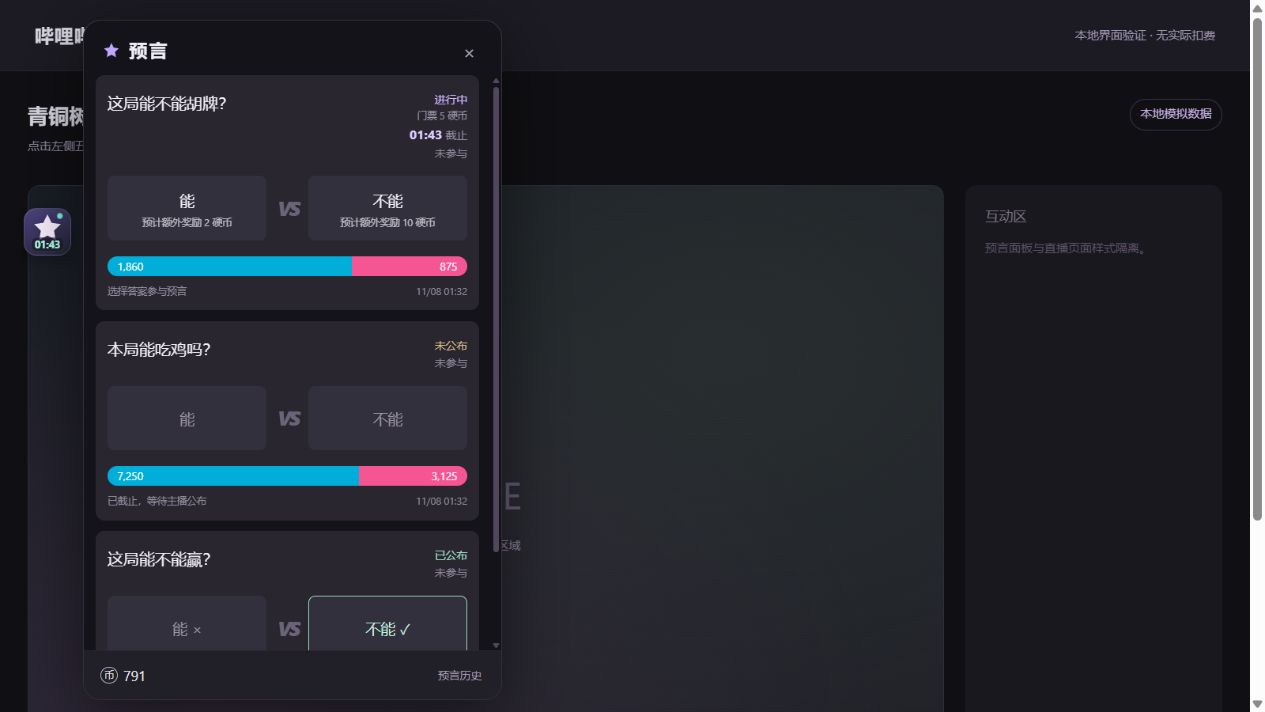
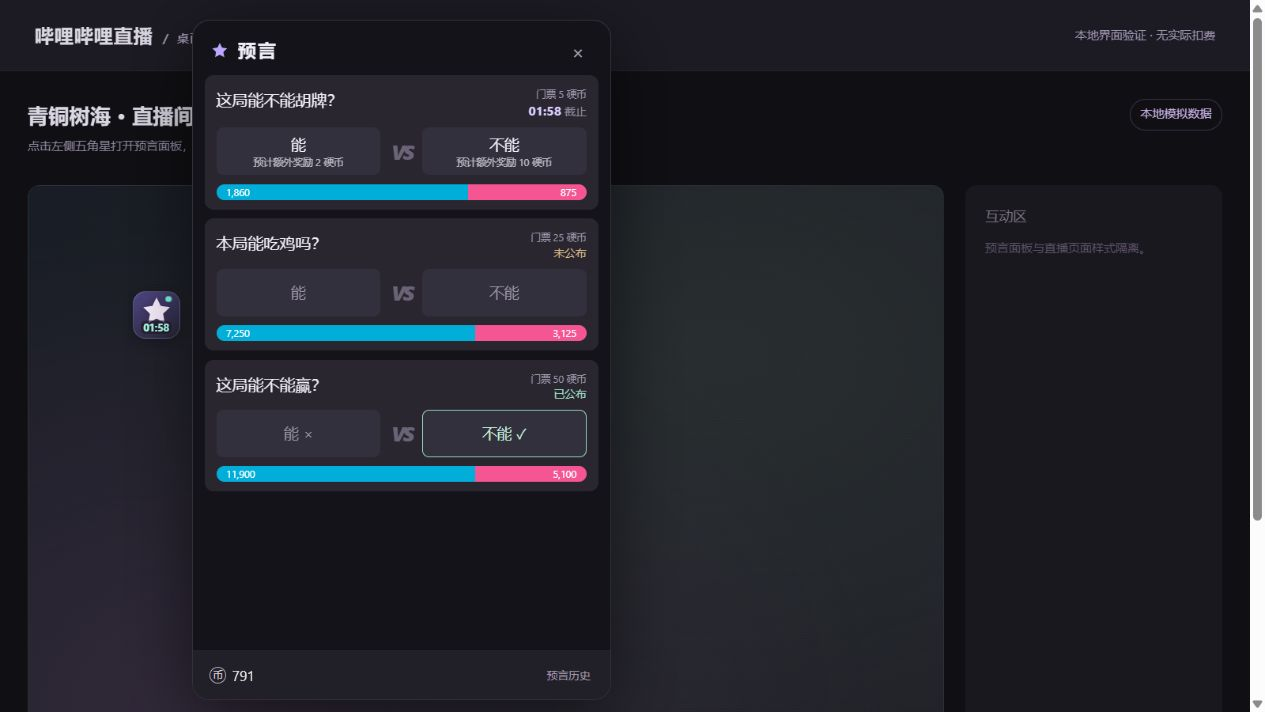
Compact prophecy cards and remove redundant labels (v1.0.5)

diff --git a/bilibili-live-prophecy.user.js b/bilibili-live-prophecy.user.js
@@ -1,7 +1,7 @@
 // ==UserScript==
 // @name         哔哩哔哩直播 · 预言
 // @namespace    local.bilibili.live.prophecy
-// @version      1.0.4
+// @version      1.0.5
 // @description  在电脑直播间查看和参与手机端预言，显示倒计时、公布状态与个人历史。
 // @homepageURL  https://github.com/jiazaiwanbi/biliBetWeb
 // @downloadURL  https://raw.githubusercontent.com/jiazaiwanbi/biliBetWeb/main/bilibili-live-prophecy.user.js
@@ -128,7 +128,7 @@
     button{font:inherit;color:inherit;border:0;cursor:pointer}button:disabled{cursor:not-allowed;opacity:.55}button:focus-visible,a:focus-visible{outline:2px solid #b7a1ff;outline-offset:3px}
     .launcher{position:fixed;width:48px;height:48px;padding:0;display:block;border:1px solid #ffffff24;border-radius:13px;background:linear-gradient(150deg,#7460c980,#29243866);box-shadow:0 4px 15px #0004;touch-action:none;user-select:none;backdrop-filter:blur(6px)}
     .launcher{transition:opacity .15s ease,visibility .15s ease}.launcher[data-controls-hidden=true]{opacity:0;visibility:hidden;pointer-events:none}.launcher:hover{filter:brightness(1.12)}.star-wrap{position:absolute;top:3px;left:50%;transform:translateX(-50%);width:34px;height:34px;display:grid;place-items:center}.star-wrap svg{width:34px;height:34px;color:#e1d6ff;filter:drop-shadow(0 1px 3px #22173966)}.live-dot{display:none;position:absolute;right:1px;top:1px;width:7px;height:7px;border:1px solid #64518c99;border-radius:50%;background:#66edc1}.launcher[data-kind=active] .live-dot{display:block}.launcher-label{position:absolute;z-index:1;bottom:3px;left:50%;transform:translateX(-50%);max-width:44px;padding:0 3px;border:1px solid #ffffff12;border-radius:5px;background:#1b1628a8;color:#e6dcfa;font-size:9px;line-height:13px;white-space:nowrap;font-weight:650;font-variant-numeric:tabular-nums}.launcher[data-kind=active] .launcher-label{color:#9ff4d4;font-size:10px}
-    .panel{position:fixed;width:min(424px,calc(100vw - 24px));height:min(708px,calc(100dvh - 32px));display:flex;flex-direction:column;overflow:hidden;border:1px solid #ffffff22;border-radius:18px;background:#141319;box-shadow:0 18px 70px #0008}.panel[hidden]{display:none}.head{display:flex;align-items:center;justify-content:space-between;gap:10px;padding:16px 18px 10px}.heading{display:flex;align-items:center;gap:9px}.heading svg{width:19px;height:19px;color:#bea7ff}.heading h2{font-size:18px;font-weight:650;letter-spacing:2px;margin:0}.icon-btn{width:29px;height:29px;border-radius:8px;background:transparent;color:#a8a5b1;font-size:19px;display:grid;place-items:center}.icon-btn:hover{background:#ffffff0d;color:white}.notice{margin:0 18px 10px;padding:9px 11px;border:1px solid #f1c27033;background:#c4913210;border-radius:9px;color:#e6c487;font-size:12px;overflow-wrap:anywhere}.notice:empty{display:none}.list{flex:1;min-height:0;overflow:auto;overscroll-behavior:contain;padding:0 12px 16px;scrollbar-width:thin;scrollbar-color:#51475d transparent}.list:focus{outline:none}.card{background:#29262f;border-radius:9px;padding:15px 12px 12px;margin:0 0 11px}.card-top{display:flex;align-items:flex-start;justify-content:space-between;gap:12px;margin-bottom:15px}.question{font-size:16px;line-height:1.6;margin:0;font-weight:500;overflow-wrap:anywhere}.status-area{flex-shrink:0;text-align:right;font-size:11px;line-height:1.6;color:#918b9e}.status{white-space:nowrap}.status.active{color:#cab5ff}.status.settled{color:#9cdbc4}.status.pending{color:#dbbd87}.status.cancelled{color:#aaa3b7}.ticket{font-size:10px;color:#9e98ad;white-space:nowrap}.clock{font-variant-numeric:tabular-nums;font-weight:650;color:#dbccff;font-size:13px}.clock.urgent{color:#ff9eaf}.choices{display:grid;grid-template-columns:minmax(0,1fr) 30px minmax(0,1fr);align-items:stretch;gap:6px}.versus{display:grid;place-items:center;color:#6b6478;font-style:italic;font-size:21px;font-weight:900;letter-spacing:-3px}.choice{min-height:65px;padding:11px 6px 8px;position:relative;border-radius:7px;border:1px solid transparent;background:#33303d;text-align:center;display:flex;flex-direction:column;align-items:center;justify-content:center;gap:4px;overflow-wrap:anywhere}.choice .answer{font-size:15px}.choice:disabled{opacity:1;color:#9a94a7}.choice.selectable:hover{border-color:#9a80c7;background:#3d364b}.choice.selected-a{background:#053c50;border-color:#00afdc;color:#94eaff}.choice.selected-b{background:#542238;border-color:#f65c97;color:#ffb8d0}.choice.winner{border-color:#99d9be;color:#c4eddb}.choice .selected-label{font-size:10px;position:absolute;top:3px;right:5px;color:inherit}.choice .profit{font-size:10px;line-height:1.3;opacity:.72}.choice .result-icon{font-size:14px;margin-left:5px}.pool{height:20px;border-radius:12px;overflow:hidden;display:flex;background:#403747;margin-top:16px;font-size:11px;line-height:20px;font-variant-numeric:tabular-nums;position:relative}.pool-a{background:#00aed9;transition:width .3s;min-width:0}.pool-b{background:#f65593;flex:1}.pool-values{position:absolute;inset:0 10px;display:flex;justify-content:space-between;color:#fff;pointer-events:none}.card-bottom{font-size:10px;color:#948c9f;display:flex;justify-content:space-between;gap:8px;margin-top:8px}.gain{color:#f58bb0}.loss{color:#a8a2b1}.empty{display:flex;flex-direction:column;align-items:center;justify-content:center;min-height:235px;gap:9px;color:#92899e;text-align:center;padding:24px}.empty svg{width:38px;height:38px;color:#5e526c;margin-bottom:6px}.empty strong{font-size:14px;color:#c4b9cf;font-weight:500}.empty small{font-size:11px;line-height:1.7}.footer{flex-shrink:0;padding:13px 17px;background:#211f27;display:flex;align-items:center;justify-content:space-between;gap:8px;border-top:1px solid #ffffff07}.wallet{display:flex;align-items:center;gap:6px;font-size:14px}.coin{width:17px;height:17px;border:1px solid #b9b4c7;border-radius:50%;display:inline-grid;place-items:center;font-size:10px;line-height:1;color:#dad4e4;flex-shrink:0}.text-button{background:transparent;color:#a49bae;font-size:11px;padding:3px}.text-button:hover{color:#e0c8ff}.load-more{width:100%;background:#2a2434;border-radius:8px;padding:10px;color:#c4b4df;font-size:12px}.modal-layer{position:absolute;inset:0;z-index:5;display:grid;place-items:center;background:#09070dbb;backdrop-filter:blur(4px);padding:23px}.modal-layer[hidden]{display:none}.modal{width:100%;padding:23px 20px 18px;background:#2b2635;border:1px solid #ffffff16;border-radius:14px;box-shadow:0 12px 32px #0005}.modal h3{font-size:16px;margin:0 0 17px}.modal p{font-size:13px;color:#bdb3ca;margin:9px 0}.modal .picked{font-size:17px;color:#f2eafa;font-weight:600}.modal .charge{color:#e8d3ab;font-size:12px}.modal-actions{display:flex;gap:9px;margin-top:21px}.modal-actions button{flex:1;border-radius:9px;padding:11px 7px;font-size:12px;background:#433a50}.modal-actions .confirm{background:#a386dd;color:#17111f;font-weight:650}.toast{position:absolute;z-index:10;bottom:70px;left:18px;right:18px;background:#eee5fa;color:#352944;border-radius:10px;padding:11px 13px;font-size:12px;box-shadow:0 7px 22px #0005;pointer-events:none}.toast[hidden]{display:none}.sr-only{position:absolute;width:1px;height:1px;margin:-1px;overflow:hidden;clip:rect(0,0,0,0)}
+    .panel{position:fixed;width:min(424px,calc(100vw - 24px));height:min(708px,calc(100dvh - 32px));display:flex;flex-direction:column;overflow:hidden;border:1px solid #ffffff22;border-radius:18px;background:#141319;box-shadow:0 18px 70px #0008}.panel[hidden]{display:none}.head{display:flex;align-items:center;justify-content:space-between;gap:10px;padding:16px 18px 10px}.heading{display:flex;align-items:center;gap:9px}.heading svg{width:19px;height:19px;color:#bea7ff}.heading h2{font-size:18px;font-weight:650;letter-spacing:2px;margin:0}.icon-btn{width:29px;height:29px;border-radius:8px;background:transparent;color:#a8a5b1;font-size:19px;display:grid;place-items:center}.icon-btn:hover{background:#ffffff0d;color:white}.notice{margin:0 18px 10px;padding:9px 11px;border:1px solid #f1c27033;background:#c4913210;border-radius:9px;color:#e6c487;font-size:12px;overflow-wrap:anywhere}.notice:empty{display:none}.list{flex:1;min-height:0;overflow:auto;overscroll-behavior:contain;padding:0 12px 16px;scrollbar-width:thin;scrollbar-color:#51475d transparent}.list:focus{outline:none}.card{background:#29262f;border-radius:9px;padding:12px 12px 10px;margin:0 0 9px}.card-top{display:flex;align-items:flex-start;justify-content:space-between;gap:12px;margin-bottom:8px}.question{font-size:16px;line-height:1.6;margin:0;font-weight:500;overflow-wrap:anywhere}.status-area{flex-shrink:0;text-align:right;font-size:11px;line-height:1.45;color:#918b9e}.status{white-space:nowrap}.status.active{color:#cab5ff}.status.settled{color:#9cdbc4}.status.pending{color:#dbbd87}.status.cancelled{color:#aaa3b7}.ticket{font-size:10px;color:#9e98ad;white-space:nowrap}.clock{font-variant-numeric:tabular-nums;font-weight:650;color:#dbccff;font-size:13px}.clock.urgent{color:#ff9eaf}.choices{display:grid;grid-template-columns:minmax(0,1fr) 30px minmax(0,1fr);align-items:stretch;gap:6px}.versus{display:grid;place-items:center;color:#6b6478;font-style:italic;font-size:21px;font-weight:900;letter-spacing:-3px}.choice{min-height:48px;padding:5px 6px;position:relative;border-radius:7px;border:1px solid transparent;background:#33303d;text-align:center;display:flex;flex-direction:column;align-items:center;justify-content:center;gap:2px;overflow-wrap:anywhere}.choice .answer{font-size:15px;line-height:20px}.choice:disabled{opacity:1;color:#9a94a7}.choice.selectable:hover{border-color:#9a80c7;background:#3d364b}.choice.selected-a{background:#053c50;border-color:#00afdc;color:#94eaff}.choice.selected-b{background:#542238;border-color:#f65c97;color:#ffb8d0}.choice.winner{border-color:#99d9be;color:#c4eddb}.choice .selected-label{font-size:10px;position:absolute;top:3px;right:5px;color:inherit}.choice .profit{font-size:10px;line-height:12px;opacity:.72}.choice .result-icon{font-size:14px;margin-left:5px}.pool{height:16px;border-radius:10px;overflow:hidden;display:flex;background:#403747;margin-top:9px;font-size:10px;line-height:16px;font-variant-numeric:tabular-nums;position:relative}.pool-a{background:#00aed9;transition:width .3s;min-width:0}.pool-b{background:#f65593;flex:1}.pool-values{position:absolute;inset:0 10px;display:flex;justify-content:space-between;color:#fff;pointer-events:none}.gain{color:#f58bb0}.loss{color:#a8a2b1}.empty{display:flex;flex-direction:column;align-items:center;justify-content:center;min-height:235px;gap:9px;color:#92899e;text-align:center;padding:24px}.empty svg{width:38px;height:38px;color:#5e526c;margin-bottom:6px}.empty strong{font-size:14px;color:#c4b9cf;font-weight:500}.empty small{font-size:11px;line-height:1.7}.footer{flex-shrink:0;padding:13px 17px;background:#211f27;display:flex;align-items:center;justify-content:space-between;gap:8px;border-top:1px solid #ffffff07}.wallet{display:flex;align-items:center;gap:6px;font-size:14px}.coin{width:17px;height:17px;border:1px solid #b9b4c7;border-radius:50%;display:inline-grid;place-items:center;font-size:10px;line-height:1;color:#dad4e4;flex-shrink:0}.text-button{background:transparent;color:#a49bae;font-size:11px;padding:3px}.text-button:hover{color:#e0c8ff}.load-more{width:100%;background:#2a2434;border-radius:8px;padding:10px;color:#c4b4df;font-size:12px}.modal-layer{position:absolute;inset:0;z-index:5;display:grid;place-items:center;background:#09070dbb;backdrop-filter:blur(4px);padding:23px}.modal-layer[hidden]{display:none}.modal{width:100%;padding:23px 20px 18px;background:#2b2635;border:1px solid #ffffff16;border-radius:14px;box-shadow:0 12px 32px #0005}.modal h3{font-size:16px;margin:0 0 17px}.modal p{font-size:13px;color:#bdb3ca;margin:9px 0}.modal .picked{font-size:17px;color:#f2eafa;font-weight:600}.modal .charge{color:#e8d3ab;font-size:12px}.modal-actions{display:flex;gap:9px;margin-top:21px}.modal-actions button{flex:1;border-radius:9px;padding:11px 7px;font-size:12px;background:#433a50}.modal-actions .confirm{background:#a386dd;color:#17111f;font-weight:650}.toast{position:absolute;z-index:10;bottom:70px;left:18px;right:18px;background:#eee5fa;color:#352944;border-radius:10px;padding:11px 13px;font-size:12px;box-shadow:0 7px 22px #0005;pointer-events:none}.toast[hidden]{display:none}.sr-only{position:absolute;width:1px;height:1px;margin:-1px;overflow:hidden;clip:rect(0,0,0,0)}
     .room-view{display:flex;flex-direction:column;flex:1;min-height:0}.history-view{position:absolute;inset:0;z-index:3;display:flex;flex-direction:column;background:#141319;border-radius:inherit;overflow:hidden}.history-view[hidden]{display:none}.history-head{display:flex;position:relative;align-items:center;justify-content:center;flex-shrink:0;height:56px;margin-bottom:7px;padding:0 16px}.history-head h2{margin:0;font-size:18px;font-weight:500}.history-back{position:absolute;left:13px;width:32px;height:36px;background:transparent;color:#e4e1e9;display:grid;place-items:center;border-radius:7px}.history-back:hover{background:#ffffff0d}.history-back{font-size:25px;font-weight:400;line-height:1}.panel[data-view=history] .toast{bottom:18px}.history-card{background:#29262f;border-radius:6px;padding:15px 17px 17px;margin-bottom:11px}.history-top{display:flex;align-items:baseline;justify-content:space-between;gap:12px;margin-bottom:9px}.history-question{margin:0;color:#efedf2;font-size:16px;font-weight:400;line-height:1.5;overflow-wrap:anywhere}.history-time{flex-shrink:0;color:#929198;font-size:12px;white-space:nowrap;font-variant-numeric:tabular-nums}.history-result,.history-anchor{margin:0;color:#96949e;font-size:13px;line-height:1.7;overflow-wrap:anywhere}.history-result{display:flex;flex-wrap:wrap;column-gap:20px;row-gap:2px;margin-bottom:4px}.history-value{color:#dfdce5}.history-delta.gain{color:#ff669e}.history-delta.loss,.history-delta.neutral{color:#dfdce5}.history-end{text-align:center;color:#76717f;font-size:11px;padding:8px 0}.panel[data-view=history] .load-more{margin-top:3px}
     @media(prefers-reduced-motion:reduce){*{transition:none!important}}@media(max-width:480px){.panel{height:min(690px,calc(100dvh - 24px))}.question{font-size:15px}.history-top{gap:8px;flex-wrap:wrap}.history-question{font-size:15px}.history-time{font-size:11px}.history-card{padding:13px 14px 15px}.history-result,.history-anchor{font-size:12px}}
   </style><div class="app">
@@ -305,17 +305,13 @@
         ${isChosen ? '<span class="selected-label">已选</span>' : ''}<span class="answer">${esc(answer === 1 ? q.answer_a : q.answer_b)}${status.kind === 'settled' && correct > 0 ? `<span class="result-icon">${won ? '✓' : '×'}</span>` : ''}</span>
         ${status.kind === 'active' && (isChosen || selectable) ? `<span class="profit">预计额外奖励 ${money(estimatedProfit(p, answer, !chosen))} 硬币</span>` : ''}</button>`;
     });
-    const description = status.kind === 'pending' ? '已截止，等待主播公布'
-      : status.kind === 'settled' ? (correct === 1 || correct === 2 ? `正确答案：${correct === 1 ? q.answer_a : q.answer_b}` : '结果已结束')
-      : status.kind === 'cancelled' ? '主播已取消本次预言' : chosen ? '已参与，等待结果' : !state.uid ? '登录后可参与' : '选择答案参与预言';
-    const date = num(p.push_time) ? new Date(num(p.push_time) * 1000).toLocaleString('zh-CN', { month: '2-digit', day: '2-digit', hour: '2-digit', minute: '2-digit' }) : '';
+    const statusLine = status.kind === 'active'
+      ? `<span class="clock" data-deadline="${num(p.count_down_time)}">${formatTime(secondsLeft(p, clock.now()))}</span> 截止`
+      : `<span class="status ${status.kind}" data-status="${id}">${status.label}</span>${reward ? ` · ${reward}` : ''}`;
     return `<article class="card" data-id="${id}">
-      <div class="card-top"><h3 class="question">${esc(q.question || '预言')}</h3><div class="status-area"><div class="status ${status.kind}" data-status="${id}">${status.label}</div>
-      ${status.kind === 'active' ? `<div class="ticket">门票 ${money(cost)} 硬币</div><div><span class="clock" data-deadline="${num(p.count_down_time)}">${formatTime(secondsLeft(p, clock.now()))}</span> 截止</div>` : ''}
-      <div>${chosen ? '已参与' : '未参与'}</div></div></div>
+      <div class="card-top"><h3 class="question">${esc(q.question || '预言')}</h3><div class="status-area"><div class="ticket">门票 ${money(cost)} 硬币</div><div>${statusLine}</div></div></div>
       <div class="choices">${buttons[0]}<span class="versus">VS</span>${buttons[1]}</div>
-      <div class="pool" aria-label="两边投入硬币：${a} 和 ${b}"><span class="pool-a" style="width:${pct}%"></span><span class="pool-b"></span><span class="pool-values"><span>${money(a)}</span><span>${money(b)}</span></span></div>
-      <div class="card-bottom"><span>${esc(description)}</span><span>${reward || esc(date)}</span></div></article>`;
+      <div class="pool" aria-label="两边投入硬币：${a} 和 ${b}"><span class="pool-a" style="width:${pct}%"></span><span class="pool-b"></span><span class="pool-values"><span>${money(a)}</span><span>${money(b)}</span></span></div></article>`;
   }
 
   function render() {

diff --git a/README.md b/README.md
@@ -2,7 +2,7 @@
 
 在哔哩哔哩电脑直播间查看和参与手机端预言的 Tampermonkey / Violentmonkey 用户脚本。
 
-**当前版本：1.0.4**
+**当前版本：1.0.5**
 
 [安装 / 更新脚本](https://raw.githubusercontent.com/jiazaiwanbi/biliBetWeb/main/bilibili-live-prophecy.user.js) · [示例直播间](https://live.bilibili.com/1774678)
 
@@ -18,7 +18,7 @@
 
 ## 功能
 
-- 接近手机端的深色卡片、蓝粉色投入进度条和选项按钮。
+- 接近手机端的紧凑深色卡片、蓝粉色投入进度条和选项按钮。进行中卡片右上角仅保留门票、倒计时两行；移除重复的参与状态、底部说明和创建时间，缩矮选项按钮。
 - 入口为 48×48 的半透明方形图标，不再单列“预言”文字；倒计时轻叠在五角星下缘。五角星和卡片都显示正在进行的预言倒计时；多条同时进行时，图标显示最近的截止时间。
 - 支持播放器原生全屏和网页全屏。全屏时图标跟随底部控制栏显隐；打开预言面板、鼠标停在图标上或拖动时保持可见。
 - 参与截止后显示 **未公布**；结算后显示 **已公布**、正确答案和参与结果；同时区分 **未开始 / 已取消 / 暂无预言**。
@@ -36,7 +36,7 @@
 
 提交前会再次检查登录账号、预言状态、已选答案和余额。同一题成功参与后会锁定选项；超时或提交结果不明确时不会自动重发。遇到这种情况，先核对参与记录再刷新页面。
 
-## 更新到 1.0.4
+## 更新到 1.0.5
 
 已有脚本时，在油猴编辑器中用新版文件替换全部内容，按 **Ctrl+S**，然后刷新直播间。
 
